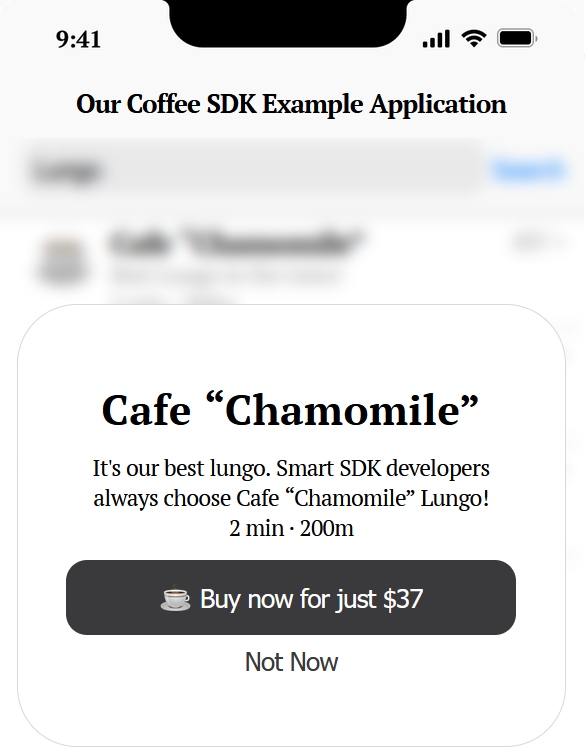
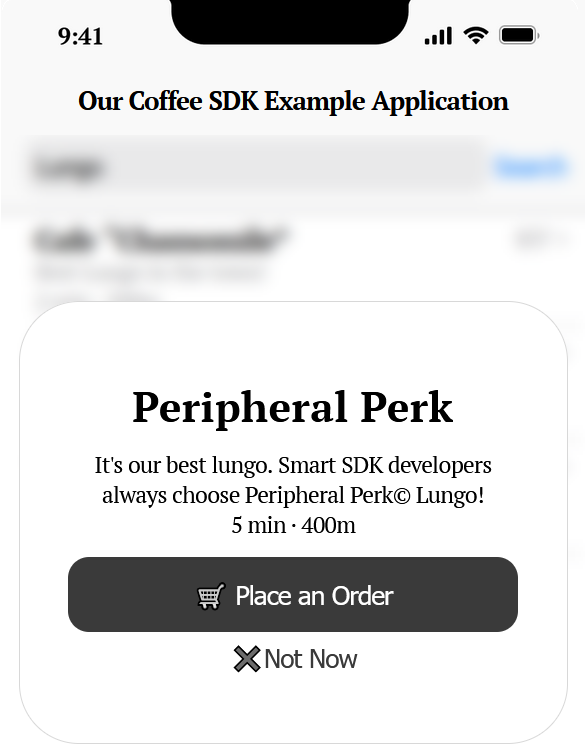
Assets fixed

diff --git a/docs/examples/01. Decomposing UI Components/index.js b/docs/examples/01. Decomposing UI Components/index.js
@@ -106,7 +106,7 @@ eval("__webpack_require__.r(__webpack_exports__);\n/* harmony export */ __webpac
   \*************************************************************************************/
 /***/ ((__unused_webpack_module, __webpack_exports__, __webpack_require__) => {
 
-eval("__webpack_require__.r(__webpack_exports__);\n/* harmony export */ __webpack_require__.d(__webpack_exports__, {\n/* harmony export */   CAFEE_CHAMOMILE_LUNGO_OFFER: () => (/* binding */ CAFEE_CHAMOMILE_LUNGO_OFFER),\n/* harmony export */   CAFEE_CHAMOMILE_LUNGO_OFFER_FULL_VIEW: () => (/* binding */ CAFEE_CHAMOMILE_LUNGO_OFFER_FULL_VIEW),\n/* harmony export */   CAFEE_CHAMOMILE_LUNGO_OFFER_PREVIEW: () => (/* binding */ CAFEE_CHAMOMILE_LUNGO_OFFER_PREVIEW),\n/* harmony export */   DUMMY_ORDER: () => (/* binding */ DUMMY_ORDER),\n/* harmony export */   DUMMY_PREVIEWS: () => (/* binding */ DUMMY_PREVIEWS),\n/* harmony export */   DUMMY_RESPONSE: () => (/* binding */ DUMMY_RESPONSE),\n/* harmony export */   dummyCoffeeApi: () => (/* binding */ dummyCoffeeApi)\n/* harmony export */ });\nvar __awaiter = (undefined && undefined.__awaiter) || function (thisArg, _arguments, P, generator) {\n    function adopt(value) { return value instanceof P ? value : new P(function (resolve) { resolve(value); }); }\n    return new (P || (P = Promise))(function (resolve, reject) {\n        function fulfilled(value) { try { step(generator.next(value)); } catch (e) { reject(e); } }\n        function rejected(value) { try { step(generator[\"throw\"](value)); } catch (e) { reject(e); } }\n        function step(result) { result.done ? resolve(result.value) : adopt(result.value).then(fulfilled, rejected); }\n        step((generator = generator.apply(thisArg, _arguments || [])).next());\n    });\n};\nconst CAFEE_CHAMOMILE_LUNGO_OFFER = {\n    offerId: '1',\n    recipe: {\n        title: 'Lungo',\n        shortDescription: 'Best Lungo in the town!',\n        mediumDescription: `It's our best lungo. Smart SDK developers always choose Cafe “Chamomile” Lungo!`\n    },\n    place: {\n        title: 'Cafe “Chamomile”',\n        walkingDistance: {\n            numericValueMeters: 200,\n            formattedValue: '200m'\n        },\n        location: {\n            longitude: 16.361645,\n            latitude: 48.211515\n        },\n        walkTime: {\n            intervalValueSeconds: 120,\n            formattedValue: '2 min'\n        },\n        icon: '/assets/coffee.png'\n    },\n    price: {\n        decimalValue: '37.00',\n        formattedValue: '$37',\n        currencyCode: 'USD'\n    }\n};\nconst CAFEE_CHAMOMILE_LUNGO_OFFER_PREVIEW = {\n    offerId: '1',\n    title: 'Cafe “Chamomile”',\n    subtitle: 'Best Lungo in the town!',\n    bottomLine: '200m · 2 min',\n    imageUrl: '/assets/coffee.png',\n    price: {\n        decimalValue: '37.00',\n        formattedValue: '$37',\n        currencyCode: 'USD'\n    }\n};\nconst CAFEE_CHAMOMILE_LUNGO_OFFER_FULL_VIEW = {\n    offerId: '1',\n    title: 'Cafe “Chamomile”',\n    description: [\n        'This is our best lungo. Smart SDK developers always choose Cafe “Chamomile” Lungo!',\n        '200m · 2 min'\n    ],\n    price: {\n        decimalValue: '37.00',\n        formattedValue: '$37',\n        currencyCode: 'USD'\n    }\n};\nconst DUMMY_RESPONSE = [\n    CAFEE_CHAMOMILE_LUNGO_OFFER,\n    {\n        offerId: '2',\n        recipe: {\n            title: 'Lungo',\n            shortDescription: 'Best Lungo in the world!',\n            mediumDescription: `It's our best lungo. Smart SDK developers always choose Peripheral Perk© Lungo!`\n        },\n        place: {\n            title: 'Peripheral Perk',\n            walkingDistance: {\n                numericValueMeters: 400,\n                formattedValue: '400m'\n            },\n            location: {\n                longitude: 16.365423,\n                latitude: 48.210377\n            },\n            walkTime: {\n                intervalValueSeconds: 600,\n                formattedValue: '5 min'\n            }\n        },\n        price: {\n            decimalValue: '39.00',\n            formattedValue: '$39',\n            currencyCode: 'USD'\n        }\n    },\n    {\n        offerId: '3',\n        recipe: {\n            title: 'Lungo',\n            shortDescription: 'Best Lungo in this app!',\n            mediumDescription: `It's our best lungo. Smart SDK developers always choose Top Top Cafe Lungo!`\n        },\n        place: {\n            title: 'Top Top Cafe',\n            walkingDistance: {\n                numericValueMeters: 50,\n                formattedValue: '50m'\n            },\n            location: {\n                longitude: 16.367205,\n                latitude: 48.208574\n            },\n            walkTime: {\n                intervalValueSeconds: 50,\n                formattedValue: 'less than a minute'\n            }\n        },\n        price: {\n            decimalValue: '41.00',\n            formattedValue: '$41',\n            currencyCode: 'USD'\n        }\n    }\n];\nconst DUMMY_PREVIEWS = [CAFEE_CHAMOMILE_LUNGO_OFFER_PREVIEW];\nconst DUMMY_ORDER = {\n    orderId: '321'\n};\nconst dummyCoffeeApi = {\n    search: () => __awaiter(void 0, void 0, void 0, function* () { return [...DUMMY_RESPONSE]; }),\n    createOrder: () => __awaiter(void 0, void 0, void 0, function* () { return DUMMY_ORDER; })\n};\n\n\n//# sourceURL=webpack://ourCoffeeSdk/./docs/examples/01._Decomposing_UI_Components/test/fixtures/dummyCoffeeApi.ts?");
+eval("__webpack_require__.r(__webpack_exports__);\n/* harmony export */ __webpack_require__.d(__webpack_exports__, {\n/* harmony export */   CAFEE_CHAMOMILE_LUNGO_OFFER: () => (/* binding */ CAFEE_CHAMOMILE_LUNGO_OFFER),\n/* harmony export */   CAFEE_CHAMOMILE_LUNGO_OFFER_FULL_VIEW: () => (/* binding */ CAFEE_CHAMOMILE_LUNGO_OFFER_FULL_VIEW),\n/* harmony export */   CAFEE_CHAMOMILE_LUNGO_OFFER_PREVIEW: () => (/* binding */ CAFEE_CHAMOMILE_LUNGO_OFFER_PREVIEW),\n/* harmony export */   DUMMY_ORDER: () => (/* binding */ DUMMY_ORDER),\n/* harmony export */   DUMMY_PREVIEWS: () => (/* binding */ DUMMY_PREVIEWS),\n/* harmony export */   DUMMY_RESPONSE: () => (/* binding */ DUMMY_RESPONSE),\n/* harmony export */   dummyCoffeeApi: () => (/* binding */ dummyCoffeeApi)\n/* harmony export */ });\nvar __awaiter = (undefined && undefined.__awaiter) || function (thisArg, _arguments, P, generator) {\n    function adopt(value) { return value instanceof P ? value : new P(function (resolve) { resolve(value); }); }\n    return new (P || (P = Promise))(function (resolve, reject) {\n        function fulfilled(value) { try { step(generator.next(value)); } catch (e) { reject(e); } }\n        function rejected(value) { try { step(generator[\"throw\"](value)); } catch (e) { reject(e); } }\n        function step(result) { result.done ? resolve(result.value) : adopt(result.value).then(fulfilled, rejected); }\n        step((generator = generator.apply(thisArg, _arguments || [])).next());\n    });\n};\nconst CAFEE_CHAMOMILE_LUNGO_OFFER = {\n    offerId: '1',\n    recipe: {\n        title: 'Lungo',\n        shortDescription: 'Best Lungo in the town!',\n        mediumDescription: `It's our best lungo. Smart SDK developers always choose Cafe “Chamomile” Lungo!`\n    },\n    place: {\n        title: 'Cafe “Chamomile”',\n        walkingDistance: {\n            numericValueMeters: 200,\n            formattedValue: '200m'\n        },\n        location: {\n            longitude: 16.361645,\n            latitude: 48.211515\n        },\n        walkTime: {\n            intervalValueSeconds: 120,\n            formattedValue: '2 min'\n        },\n        icon: '../../assets/coffee.png'\n    },\n    price: {\n        decimalValue: '37.00',\n        formattedValue: '$37',\n        currencyCode: 'USD'\n    }\n};\nconst CAFEE_CHAMOMILE_LUNGO_OFFER_PREVIEW = {\n    offerId: '1',\n    title: 'Cafe “Chamomile”',\n    subtitle: 'Best Lungo in the town!',\n    bottomLine: '200m · 2 min',\n    imageUrl: '/assets/coffee.png',\n    price: {\n        decimalValue: '37.00',\n        formattedValue: '$37',\n        currencyCode: 'USD'\n    }\n};\nconst CAFEE_CHAMOMILE_LUNGO_OFFER_FULL_VIEW = {\n    offerId: '1',\n    title: 'Cafe “Chamomile”',\n    description: [\n        'This is our best lungo. Smart SDK developers always choose Cafe “Chamomile” Lungo!',\n        '200m · 2 min'\n    ],\n    price: {\n        decimalValue: '37.00',\n        formattedValue: '$37',\n        currencyCode: 'USD'\n    }\n};\nconst DUMMY_RESPONSE = [\n    CAFEE_CHAMOMILE_LUNGO_OFFER,\n    {\n        offerId: '2',\n        recipe: {\n            title: 'Lungo',\n            shortDescription: 'Best Lungo in the world!',\n            mediumDescription: `It's our best lungo. Smart SDK developers always choose Peripheral Perk© Lungo!`\n        },\n        place: {\n            title: 'Peripheral Perk',\n            walkingDistance: {\n                numericValueMeters: 400,\n                formattedValue: '400m'\n            },\n            location: {\n                longitude: 16.365423,\n                latitude: 48.210377\n            },\n            walkTime: {\n                intervalValueSeconds: 600,\n                formattedValue: '5 min'\n            }\n        },\n        price: {\n            decimalValue: '39.00',\n            formattedValue: '$39',\n            currencyCode: 'USD'\n        }\n    },\n    {\n        offerId: '3',\n        recipe: {\n            title: 'Lungo',\n            shortDescription: 'Best Lungo in this app!',\n            mediumDescription: `It's our best lungo. Smart SDK developers always choose Top Top Cafe Lungo!`\n        },\n        place: {\n            title: 'Top Top Cafe',\n            walkingDistance: {\n                numericValueMeters: 50,\n                formattedValue: '50m'\n            },\n            location: {\n                longitude: 16.367205,\n                latitude: 48.208574\n            },\n            walkTime: {\n                intervalValueSeconds: 50,\n                formattedValue: 'less than a minute'\n            }\n        },\n        price: {\n            decimalValue: '41.00',\n            formattedValue: '$41',\n            currencyCode: 'USD'\n        }\n    }\n];\nconst DUMMY_PREVIEWS = [CAFEE_CHAMOMILE_LUNGO_OFFER_PREVIEW];\nconst DUMMY_ORDER = {\n    orderId: '321'\n};\nconst dummyCoffeeApi = {\n    search: () => __awaiter(void 0, void 0, void 0, function* () { return [...DUMMY_RESPONSE]; }),\n    createOrder: () => __awaiter(void 0, void 0, void 0, function* () { return DUMMY_ORDER; })\n};\n\n\n//# sourceURL=webpack://ourCoffeeSdk/./docs/examples/01._Decomposing_UI_Components/test/fixtures/dummyCoffeeApi.ts?");
 
 /***/ }),
 
@@ -116,7 +116,7 @@ eval("__webpack_require__.r(__webpack_exports__);\n/* harmony export */ __webpac
   \**********************************************************************************/
 /***/ ((__unused_webpack_module, __webpack_exports__, __webpack_require__) => {
 
-eval("__webpack_require__.r(__webpack_exports__);\n/* harmony export */ __webpack_require__.d(__webpack_exports__, {\n/* harmony export */   DummyMapApi: () => (/* binding */ DummyMapApi)\n/* harmony export */ });\nclass DummyMapApi {\n    constructor(container, bounds) {\n        this.container = container;\n        this.bounds = bounds;\n        this.listenerDisposers = [];\n        this.container.style.cssText = [\n            'background-image: url(/assets/map.jpg)',\n            'background-position: center',\n            'background-repeat: no-repeat',\n            'background-size: cover',\n            'position: relative',\n            'width: 100%',\n            'height: 100%'\n        ].join(';');\n    }\n    addMarker(markerId, location, onClick) {\n        const rect = this.container.getBoundingClientRect();\n        const x = Math.floor((rect.width * (location.longitude - this.bounds[0][0])) /\n            (this.bounds[1][0] - this.bounds[0][0])) - 15;\n        const y = Math.floor((rect.height * (this.bounds[1][1] - location.latitude)) /\n            (this.bounds[1][1] - this.bounds[0][1])) - 30;\n        const marker = document.createElement('div');\n        marker.style.cssText = [\n            'position: absolute',\n            'width: 30px',\n            'height: 30px',\n            `left: ${x}px`,\n            `top: ${y}px`,\n            'align: center',\n            'line-height: 30px',\n            'font-size: 30px',\n            'cursor: pointer'\n        ].join(';');\n        marker.innerHTML =\n            '<a href=\"javascript:void(0)\" style=\"text-decoration: none;\">📍</a>';\n        const listener = () => onClick(markerId);\n        this.listenerDisposers.push(() => {\n            marker.removeEventListener('click', listener, false);\n        });\n        marker.addEventListener('click', listener, false);\n        this.container.appendChild(marker);\n    }\n    destroy() {\n        for (const dispose of this.listenerDisposers) {\n            dispose();\n        }\n        this.listenerDisposers = [];\n        this.container.innerHTML = '';\n        this.container.style.cssText = '';\n    }\n}\n\n\n//# sourceURL=webpack://ourCoffeeSdk/./docs/examples/01._Decomposing_UI_Components/test/fixtures/dummyMapApi.ts?");
+eval("__webpack_require__.r(__webpack_exports__);\n/* harmony export */ __webpack_require__.d(__webpack_exports__, {\n/* harmony export */   DummyMapApi: () => (/* binding */ DummyMapApi)\n/* harmony export */ });\nclass DummyMapApi {\n    constructor(container, bounds) {\n        this.container = container;\n        this.bounds = bounds;\n        this.listenerDisposers = [];\n        this.container.style.cssText = [\n            'background-image: url(../../assets/map.jpg)',\n            'background-position: center',\n            'background-repeat: no-repeat',\n            'background-size: cover',\n            'position: relative',\n            'width: 100%',\n            'height: 100%'\n        ].join(';');\n    }\n    addMarker(markerId, location, onClick) {\n        const rect = this.container.getBoundingClientRect();\n        const x = Math.floor((rect.width * (location.longitude - this.bounds[0][0])) /\n            (this.bounds[1][0] - this.bounds[0][0])) - 15;\n        const y = Math.floor((rect.height * (this.bounds[1][1] - location.latitude)) /\n            (this.bounds[1][1] - this.bounds[0][1])) - 30;\n        const marker = document.createElement('div');\n        marker.style.cssText = [\n            'position: absolute',\n            'width: 30px',\n            'height: 30px',\n            `left: ${x}px`,\n            `top: ${y}px`,\n            'align: center',\n            'line-height: 30px',\n            'font-size: 30px',\n            'cursor: pointer'\n        ].join(';');\n        marker.innerHTML =\n            '<a href=\"javascript:void(0)\" style=\"text-decoration: none;\">📍</a>';\n        const listener = () => onClick(markerId);\n        this.listenerDisposers.push(() => {\n            marker.removeEventListener('click', listener, false);\n        });\n        marker.addEventListener('click', listener, false);\n        this.container.appendChild(marker);\n    }\n    destroy() {\n        for (const dispose of this.listenerDisposers) {\n            dispose();\n        }\n        this.listenerDisposers = [];\n        this.container.innerHTML = '';\n        this.container.style.cssText = '';\n    }\n}\n\n\n//# sourceURL=webpack://ourCoffeeSdk/./docs/examples/01._Decomposing_UI_Components/test/fixtures/dummyMapApi.ts?");
 
 /***/ }),
 

diff --git a/docs/examples/01. Decomposing UI Components/samples/02.js b/docs/examples/01. Decomposing UI Components/samples/02.js
@@ -11,7 +11,7 @@ const buildCustomOrderButton = function (
       createOrderButtonText:
         (offer &&
           `Buy now for just ${offer.price.formattedValue}`) ||
-        "Place an Order",
+        "Place an Order"
     }
   );
 };
@@ -25,7 +25,7 @@ class CustomComposer extends ourCoffeeSdk.SearchBoxComposer {
       ? result
       : result.map((preview, index) => ({
           ...preview,
-          imageUrl: offerList[index].place.icon,
+          imageUrl: offerList[index].place.icon
         }));
   }
 
@@ -37,7 +37,7 @@ class CustomComposer extends ourCoffeeSdk.SearchBoxComposer {
             offer,
             options
           ),
-          createOrderButtonIcon: offer.place.icon,
+          createOrderButtonIcon: offer.place.icon
         };
   }
 }
@@ -65,9 +65,10 @@ const searchBox = new CustomSearchBox(
       buttonBuilders: [
         buildCustomOrderButton,
         ourCoffeeSdk.OfferPanelComponent
-          .buildCloseButton,
+          .buildCloseButton
       ],
-    },
+      closeButtonText: "❌Not Now"
+    }
   }
 );
 searchBox.search("Lungo");

diff --git a/docs/examples/01. Decomposing UI Components/samples/03.js b/docs/examples/01. Decomposing UI Components/samples/03.js
@@ -9,11 +9,11 @@ class CustomOfferList {
 
     this.onMarkerSelect = (markerId) => {
       this.events.emit("offerSelect", {
-        offerId: markerId,
+        offerId: markerId
       });
     };
     this.setOfferList = ({
-      offerList: newOfferList,
+      offerList: newOfferList
     }) => {
       if (this.map) {
         this.map.destroy();
@@ -25,7 +25,7 @@ class CustomOfferList {
           this.container,
           [
             [16.355, 48.206],
-            [16.375, 48.214],
+            [16.375, 48.214]
           ]
         );
         for (const offer of newOfferList) {
@@ -82,7 +82,7 @@ class CustomComposer extends ourCoffeeSdk.SearchBoxComposer {
       : result.map((preview, index) => ({
           ...preview,
           location:
-            offerList[index].place.location,
+            offerList[index].place.location
         }));
   }
 }

diff --git a/docs/examples/01. Decomposing UI Components/test/fixtures/dummyMapApi.ts b/docs/examples/01. Decomposing UI Components/test/fixtures/dummyMapApi.ts
@@ -8,7 +8,7 @@ export class DummyMapApi {
         protected bounds: [[number, number], [number, number]]
     ) {
         this.container.style.cssText = [
-            'background-image: url(/assets/map.jpg)',
+            'background-image: url(../../assets/map.jpg)',
             'background-position: center',
             'background-repeat: no-repeat',
             'background-size: cover',

diff --git a/docs/examples/01. Decomposing UI Components/sandbox.js b/docs/examples/01. Decomposing UI Components/sandbox.js
@@ -44,7 +44,7 @@ window.onload = function () {
                     ${code}
                 }
             </script></head><body>
-                <img src="/assets/app-header.png"/>
+                <img src="../../assets/app-header.png"/>
                 <h1>Our Coffee SDK Example Application</h1>
                 <div id="search-box"/>
             </body></html>`;

diff --git a/docs/examples/01. Decomposing UI Components/test/fixtures/dummyCoffeeApi.ts b/docs/examples/01. Decomposing UI Components/test/fixtures/dummyCoffeeApi.ts
@@ -25,7 +25,7 @@ export const CAFEE_CHAMOMILE_LUNGO_OFFER = {
             intervalValueSeconds: 120,
             formattedValue: '2 min'
         },
-        icon: '/assets/coffee.png'
+        icon: '../../assets/coffee.png'
     },
     price: {
         decimalValue: '37.00',

diff --git a/docs/examples/01. Decomposing UI Components/samples/04.js b/docs/examples/01. Decomposing UI Components/samples/04.js
@@ -18,7 +18,7 @@ class CustomOfferList extends ourCoffeeSdk.OfferListComponent {
           this.context.events.emit(
             "createOrder",
             {
-              offer,
+              offer
             }
           );
         }

diff --git a/docs/examples/01. Decomposing UI Components/style.css b/docs/examples/01. Decomposing UI Components/style.css
@@ -164,6 +164,7 @@
     border: transparent;
     cursor: pointer;
     margin-bottom: 5px;
+    mix-blend-mode: luminosity;
 }
 
 .our-coffee-sdk-offer-panel-buttons button img {

diff --git a/src/ru/clean-copy/06-[В разработке] Раздел V. SDK и UI-библиотеки/04.md b/src/ru/clean-copy/06-[В разработке] Раздел V. SDK и UI-библиотеки/04.md
@@ -1,1 +1,1 @@
-### Декомпозиция UI-компонентов. MV*-подходы
+### Декомпозиция UI-компонентов
